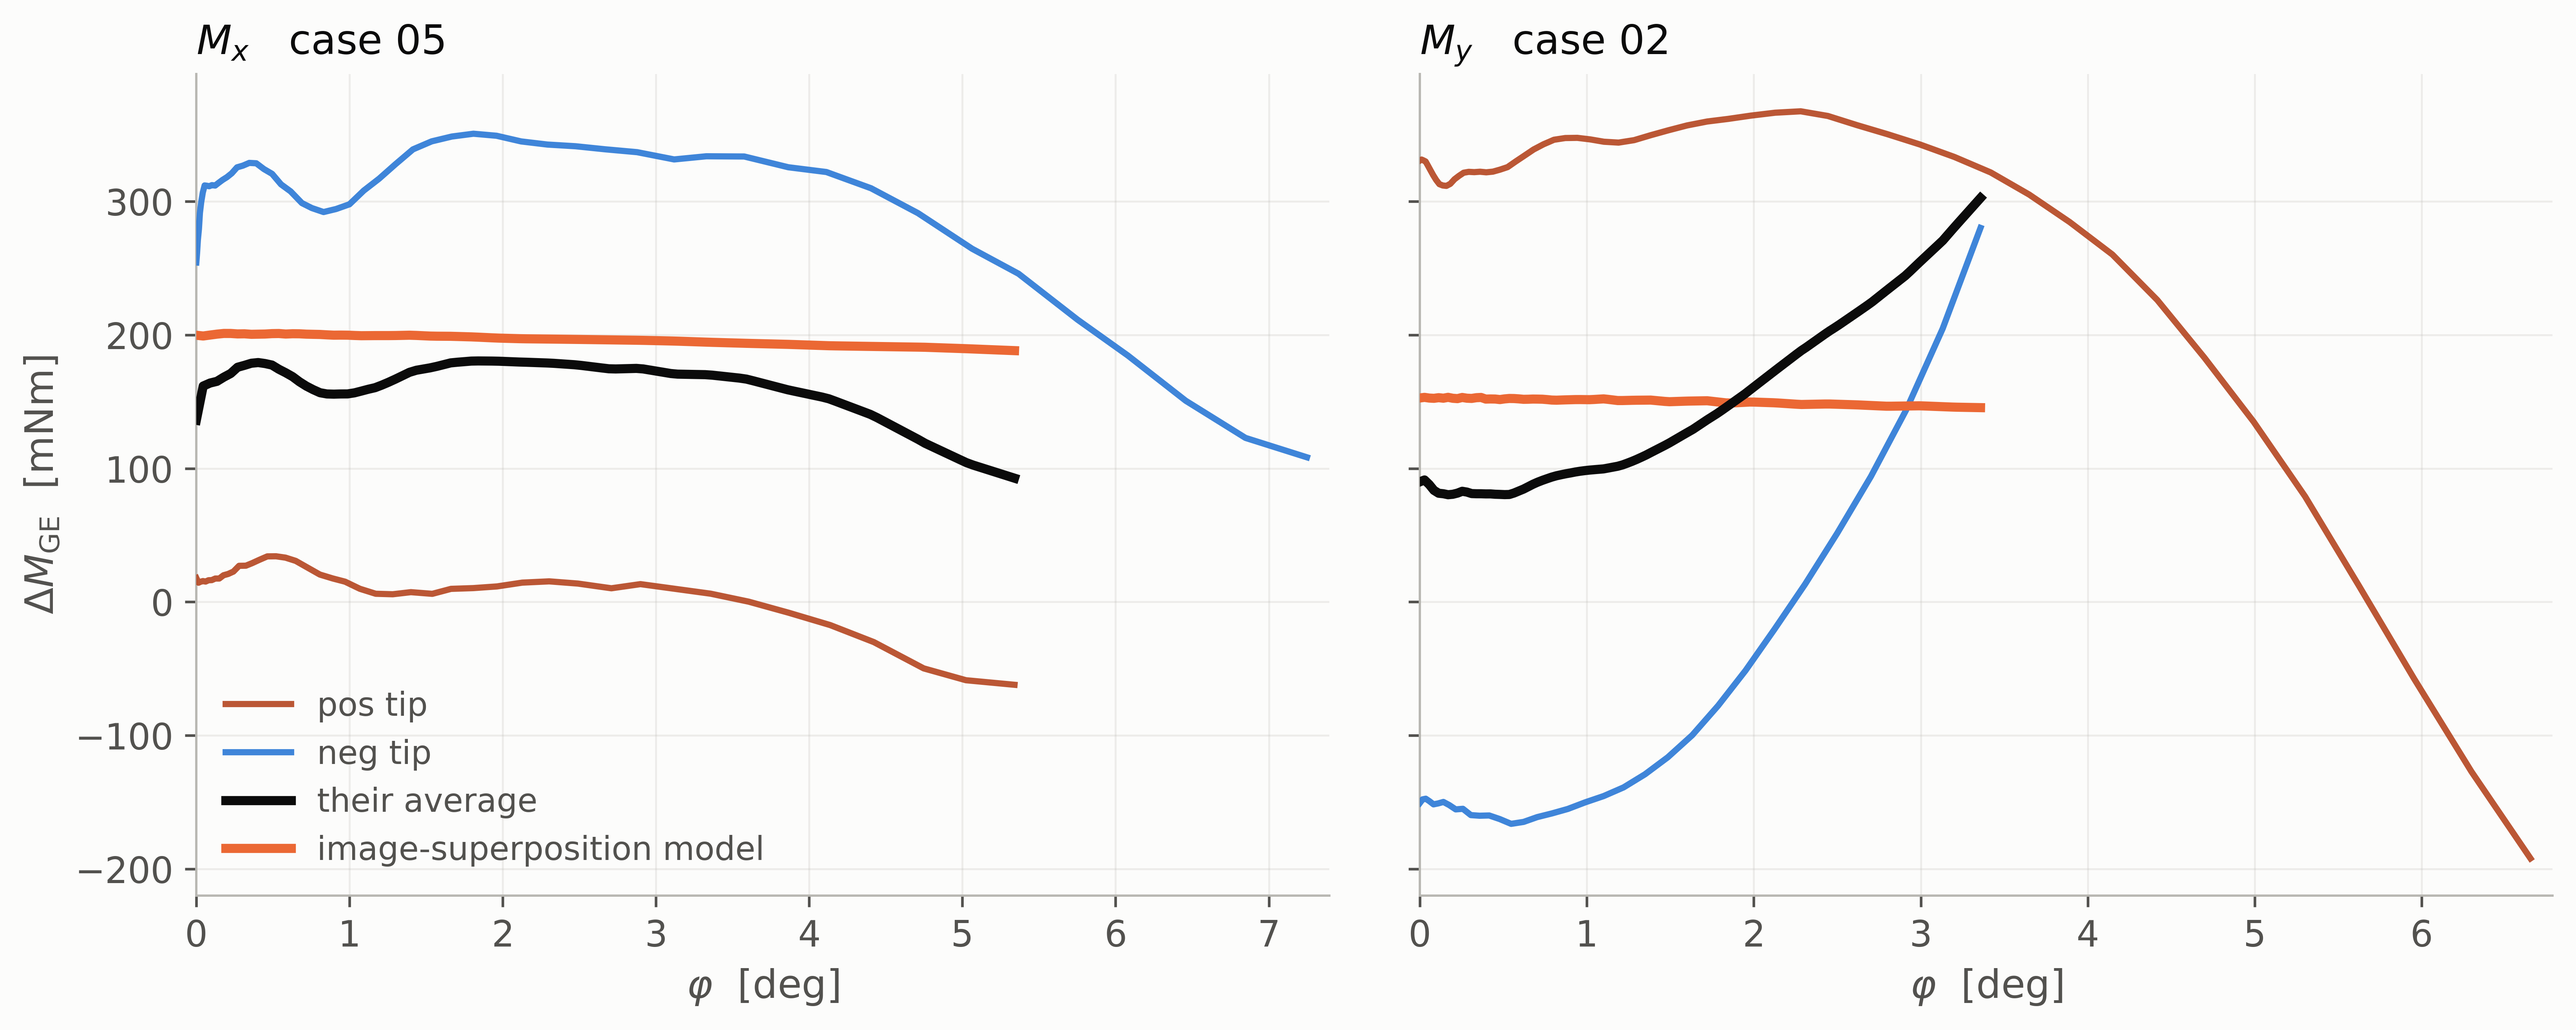
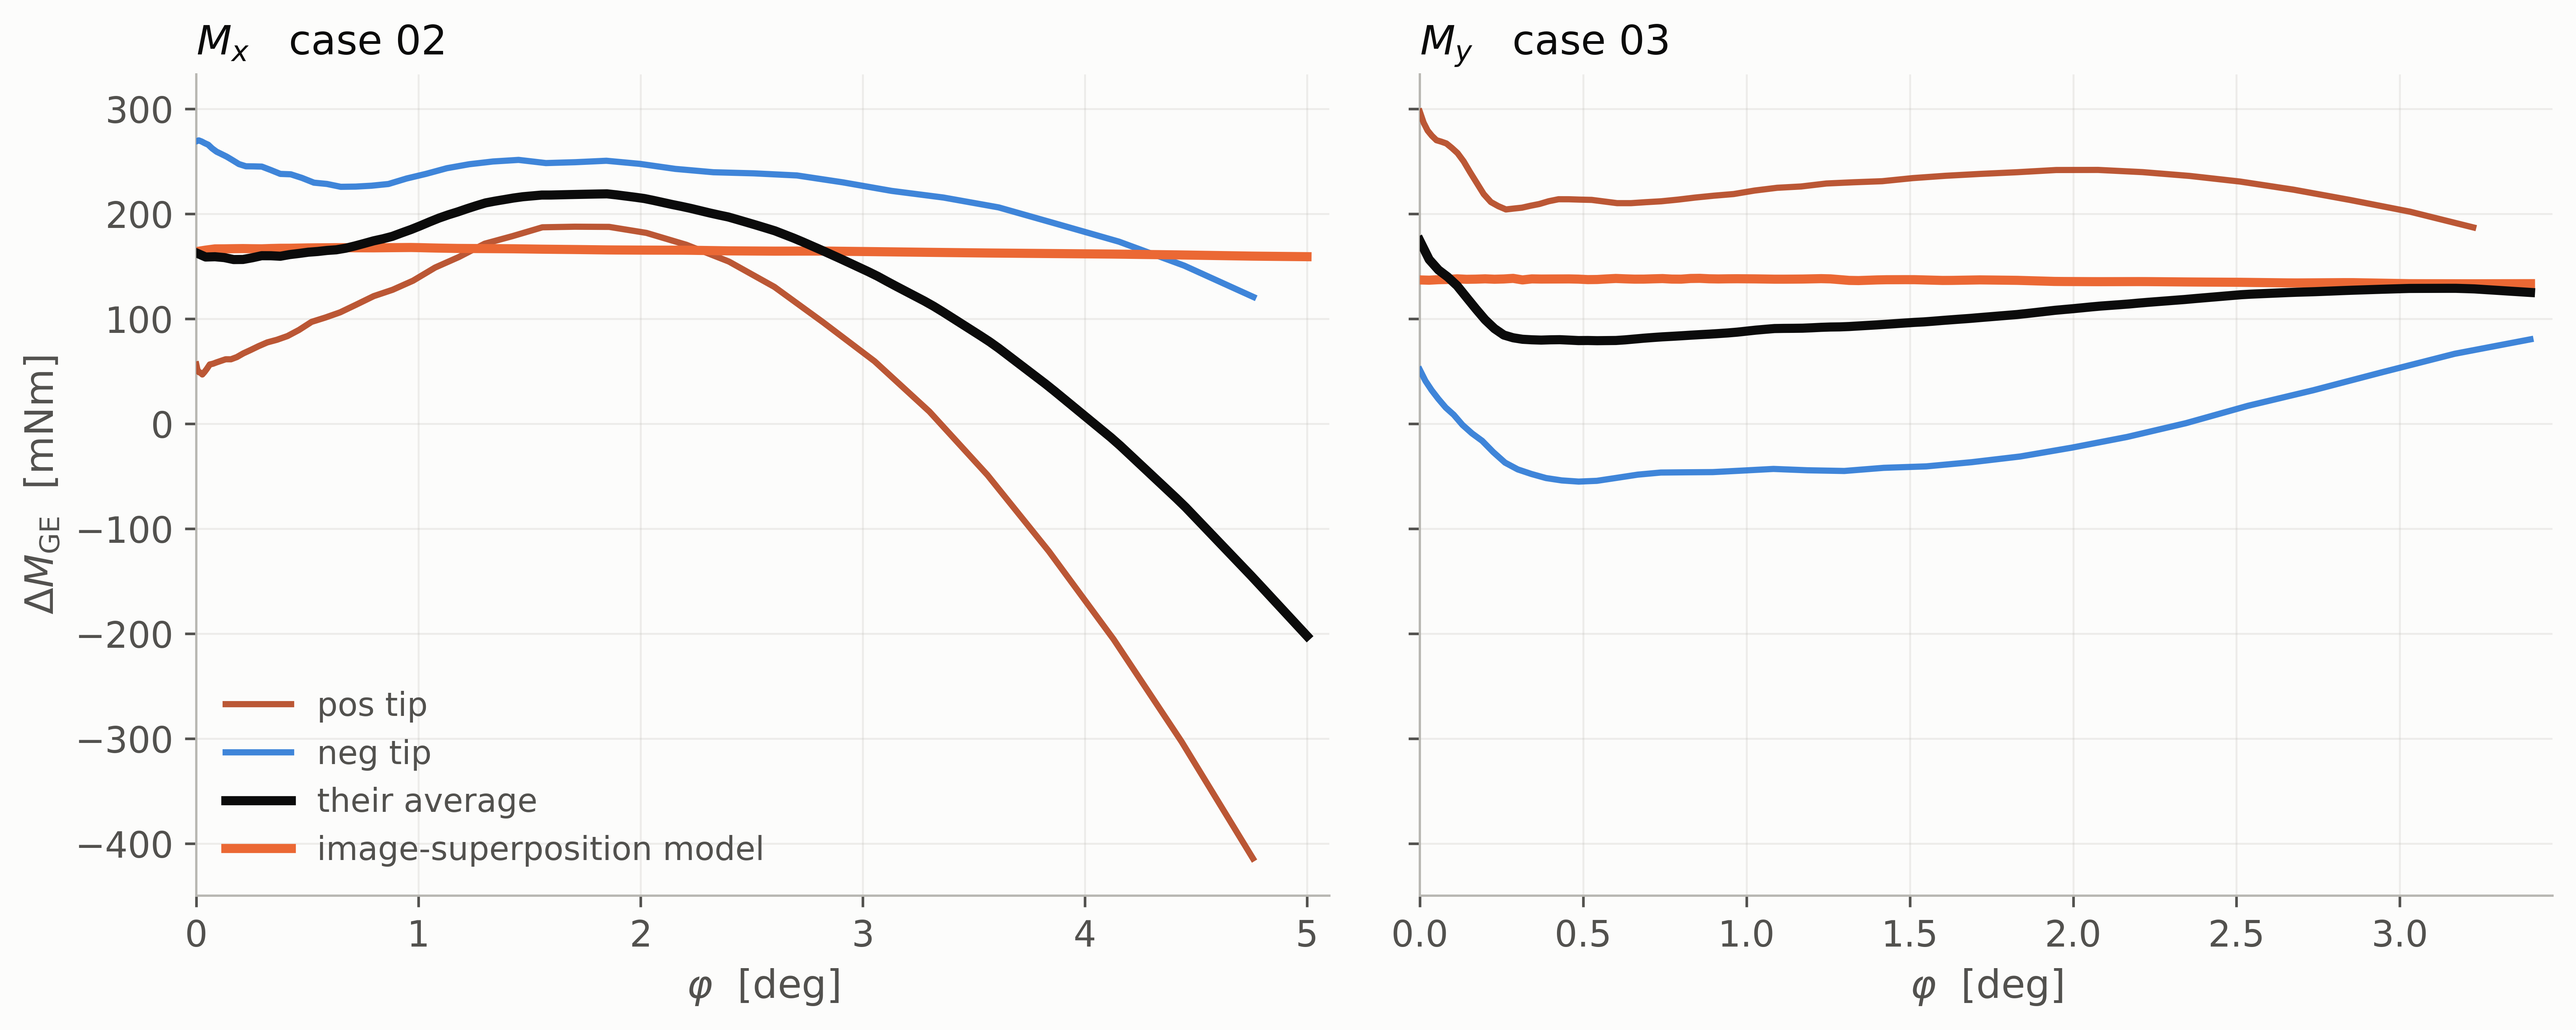
Choose the single-run cases on gradient as well, and cut to the same range
Two corrections to the unaggregated figure.

It picked its case on the onset level alone, which put case_02 on My --
whose gradient is +28.9 mN.m/deg against an axis median of -17.2, the
steepest of the five, so the panel misrepresented the very thing it was
not selected for.  Scoring on level and gradient together gives case_02
on Mx (level -72.2, gradient -4.6 against medians -31.1 and -4.6) and
case_03 on My (-41.2 and -17.2 against -56.6 and -17.2).

It also ran each pair to its own window end, showing a regime the
result excludes: a single run keeps going where it is tipping over
fast and the balance stops holding, Mx/pos reaching -1050 mN.m by 6.5
deg, while the aggregate is a median over 70 runs and is cut at 5.0 deg
on Mx and 3.4 on My.  Cut to the same range, the pairs read
average - model median -6 and RMS 127 on Mx, -29 and 36 on My.

diff --git a/analysis/ge_single_run_figure.py b/analysis/ge_single_run_figure.py
@@ -8,18 +8,25 @@ and one negative tip run of one case, on each axis, plus their average
 -- the combination M_ff = sign * 0.5 * (M_pos + M_neg) the
 identification forms.
 
-The cases shown are the ones whose direction-averaged onset residual
-sits closest to their axis's median over the five cases, so neither
-panel is a best case: case_05 on Mx (-32.5 mN.m against an axis median
-of -32.5) and case_02 on My (-56.6 against -56.6).
+The cases are chosen on BOTH the level and the gradient of the
+direction-averaged residual, each scored against its axis median in
+units of that axis's spread, so neither panel is a best case.  Choosing
+on the level alone picks case_02 on My, whose gradient is +28.9
+mN.m/deg against an axis median of -17.2 -- the steepest of the five,
+and misleading about the gradient it was not chosen for.
 
-Two things are visible here that the aggregate hides.  The two tip
-directions straddle the model rather than sitting on it, by about +-240
-mN.m on My and +-60 on Mx -- the contact lever's direction asymmetry,
-which the average removes (analysis/lever_fit.py).  And a single run is
-not smooth: the per-run residual has an RMS of 137 mN.m on Mx, most of
-which the estimator's own span absorbs, leaving a propagated 0.02 mm on
-the identified offset (analysis/residual_to_mm.py).
+The tilt range is the aggregate figure's, 5.0 deg on Mx and 3.4 on My.
+Past that a single run runs on to its own window end, where it is going
+over fast and the balance stops holding -- Mx/pos reaches -1050 mN.m by
+6.5 deg -- and the aggregate, being a median over 70 runs, neither
+shows those tails nor extends into them.
+
+What is visible here that the aggregate hides is the straddle: the two
+tip directions sit either side of the model rather than on it, by
+roughly +-100 mN.m on Mx and +-120 on My, and only their average
+approaches it.  That is the contact lever's direction asymmetry, which
+the pivot-free average removes by construction
+(analysis/lever_fit.py).
 
 Usage:
   HD_DERIV=bwk:3 HD_GAIN=0.890 HD_DUMP=hd.npz \
@@ -39,7 +46,12 @@ OUT = Path(sys.argv[2]) if len(sys.argv) > 2 else Path('docs')
 
 POS, NEG, AVG, MOD = '#b4451f', '#2a78d6', '#0b0b0b', '#eb6834'
 INK, INK2, MUTED, SURF = '#0b0b0b', '#52514e', '#b8b7b2', '#fcfcfb'
-SHOW = {'Mx': 'case_05', 'My': 'case_02'}
+# Chosen on BOTH the onset level and the gradient of the
+# direction-averaged residual, each scored against its axis median in
+# units of that axis's interquartile spread.  Picking on the level
+# alone put case_02 on My, whose gradient is +28.9 mN.m/deg against an
+# axis median of -17.2 -- the steepest of the five, and misleading.
+SHOW = None
 
 d = np.load(SRC)
 rid, phi = d['rid'], d['phi']
@@ -57,6 +69,35 @@ fig.subplots_adjust(left=0.085, right=0.98, bottom=0.14, top=0.90,
                     wspace=0.08)
 
 
+def representative(axn):
+    """the case closest to its axis median in level AND in gradient"""
+    lim = 5.0 if axn == 'Mx' else 3.4
+    lv, gr, cs = [], [], []
+    for c in sorted(set(d['case'])):
+        a = []
+        for tp in ('pos', 'neg'):
+            m = ((d['case'][rid] == c) & (d['axis'][rid] == axn)
+                 & (d['tip'][rid] == tp) & (phi <= lim))
+            if m.sum() < 30:
+                break
+            a.append((np.median(d['resid'][m & (phi < 0.4)]),
+                      np.polyfit(phi[m], d['resid'][m], 1)[0]))
+        if len(a) == 2:
+            cs.append(c)
+            lv.append(0.5 * (a[0][0] + a[1][0]))
+            gr.append(0.5 * (a[0][1] + a[1][1]))
+    lv, gr = np.array(lv), np.array(gr)
+    sl = np.subtract(*np.percentile(lv, [75, 25])) or 1.0
+    sg = np.subtract(*np.percentile(gr, [75, 25])) or 1.0
+    score = (np.abs(lv - np.median(lv)) / abs(sl)
+             + np.abs(gr - np.median(gr)) / abs(sg))
+    k = int(np.argmin(score))
+    print(f"  {axn}: {cs[k]}   level {lv[k]:+.1f} (median "
+          f"{np.median(lv):+.1f}),  gradient {gr[k]:+.1f} (median "
+          f"{np.median(gr):+.1f})")
+    return cs[k]
+
+
 def pick(case, axn, tp):
     """the run of this class whose onset residual is closest to its median"""
     m = ((d['case'] == case) & (d['axis'] == axn) & (d['tip'] == tp))
@@ -69,16 +110,26 @@ def pick(case, axn, tp):
     return int(idx[np.nanargmin(np.abs(val - np.nanmedian(val)))])
 
 
+print("representative case per axis, scored on level and gradient\n")
+SHOW = {axn: representative(axn) for axn in ('Mx', 'My')}
+
 for k, axn in enumerate(('Mx', 'My')):
     a_ = axes[k]
     case = SHOW[axn]
     ip, inn = pick(case, axn, 'pos'), pick(case, axn, 'neg')
     sp, sn = rid == ip, rid == inn
+    lim = 5.0 if axn == 'Mx' else 3.4
     for s, col, lab in ((sp, POS, 'pos tip'), (sn, NEG, 'neg tip')):
-        a_.plot(phi[s], inv[s], color=col, lw=1.9, alpha=0.9, zorder=4,
+        c_ = s & (phi <= lim)
+        a_.plot(phi[c_], inv[c_], color=col, lw=1.9, alpha=0.9, zorder=4,
                 label=lab)
-    # the average, on the tilt grid both runs cover
-    hi = min(phi[sp].max(), phi[sn].max())
+    # Same tilt range the aggregate figure uses.  A single run carries
+    # on to its own window end, where the vehicle is going over fast and
+    # the balance stops holding -- Mx/pos reaches -1050 mN.m by 6.5 deg
+    # -- and the aggregate is a median over 70 runs, which is insensitive
+    # to those tails and is cut at 5.0 deg on Mx and 3.4 on My anyway.
+    # Showing them here would display a regime the result excludes.
+    hi = min(phi[sp].max(), phi[sn].max(), 5.0 if axn == 'Mx' else 3.4)
     g = np.linspace(0, hi, 120)
     av = 0.5 * (np.interp(g, phi[sp], inv[sp])
                 + np.interp(g, phi[sn], inv[sn]))
@@ -86,7 +137,7 @@ for k, axn in enumerate(('Mx', 'My')):
     a_.plot(g, np.interp(g, phi[sp], mod[sp]), color=MOD, lw=2.8, zorder=5,
             label='image-superposition model')
     a_.set_xlabel(r'$\varphi$  [deg]', color=INK2)
-    a_.set_xlim(0, max(phi[sp].max(), phi[sn].max()) * 1.02)
+    a_.set_xlim(0, hi * 1.02)
     a_.grid(alpha=0.22, lw=0.6, color=MUTED)
     a_.set_axisbelow(True)
     for sp_ in ('top', 'right'):
